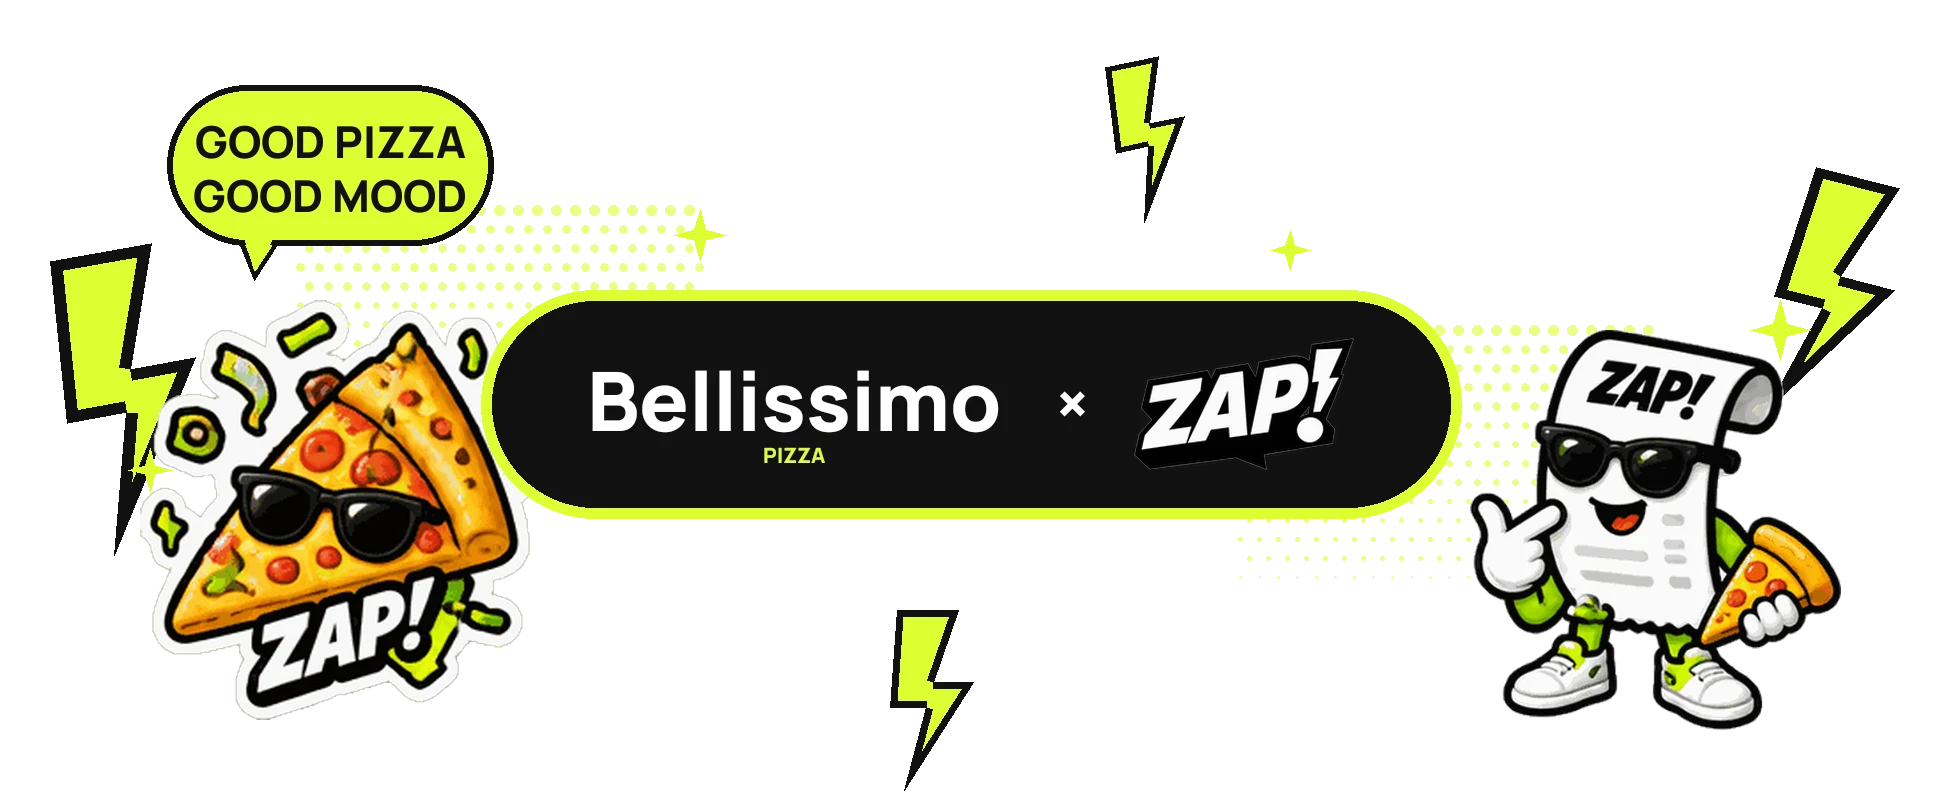
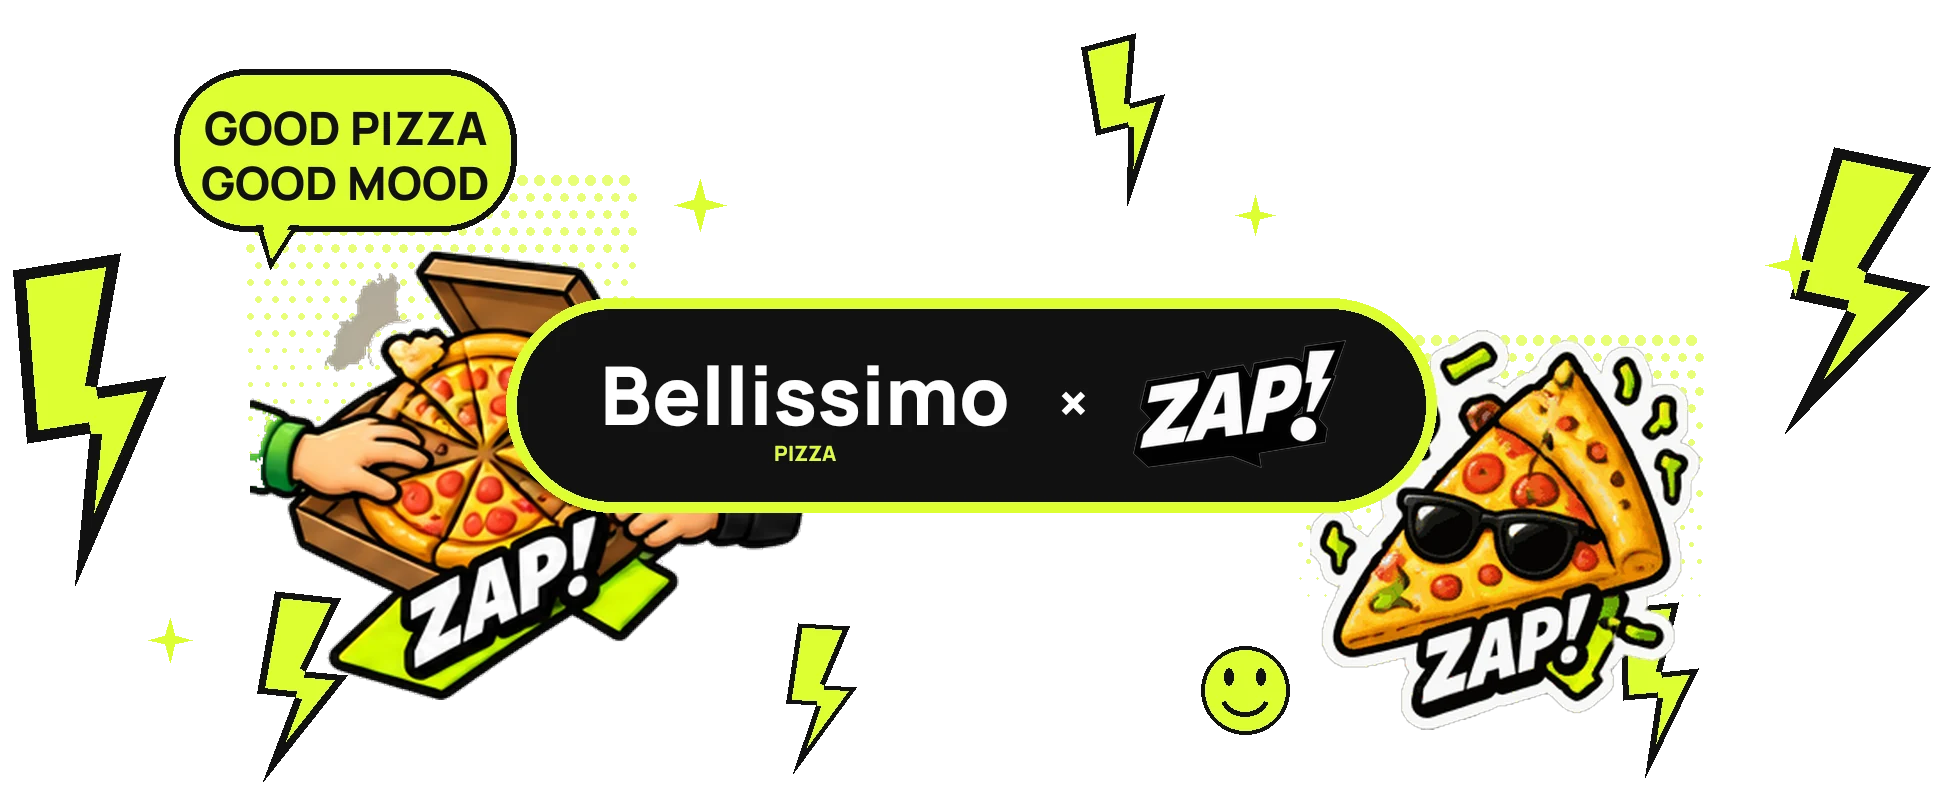
Баннеры заведений: настоящая еда вместо абстрактных значков
Прошлый заход промахнулся: в баннерах стояли служебные стикеры ZAP —
чек-персонаж, кулаки, сердце. В эталонном feedup-баннере главное не молнии
и не пилюля, а крупная ЕДА, и без неё баннер не читается как баннер
заведения.

Иллюстрации взяты из листов стикеров в docs/product: комбо (стакан, пицца,
бургер, фри), коробка пиццы в руках и пара кофейных стаканов. Вырезаны
заливкой от краёв, остатки фона отброшены как мелкие несвязные области —
пороговая чистка по цвету съедала белую обводку и серые линии чека.
Исходники лежат в tools/banner-src, чтобы баннеры пересобирались одной
командой.

Еда подобрана по кухне: коробка пиццы — Bellissimo, комбо — EVOS, кофе —
Safia и Bon. У Safia и Bon пара одна и та же: выпечки в наборе нет, поэтому
их разводим порядком, масштабом и подписью. Зеркалить нельзя — в стикерах
вшито «ZAP!», отражённый он читается задом наперёд.

Композиция плотнее: еда рисуется под пилюлей и заходит под неё, как лаваш и
бургер в эталоне, а не стоит иконками по краям.

diff --git a/apps/mobile/tools/gen-venue-banners.py b/apps/mobile/tools/gen-venue-banners.py
@@ -1,13 +1,14 @@
 #!/usr/bin/env python3
-"""Баннеры заведений для карусели главной — в стиле feedup × ZAP!.
+"""Баннеры заведений для карусели главной — в языке feedup × ZAP!.
 
 Эталон — assets/brand/venues/feedup.webp: широкий прозрачный коллаж, в центре
 чёрная «пилюля» с лаймовой обводкой и лок-апом «логотип × ZAP!», вокруг —
-стикеры, молнии, полутоновые точки и облачко с репликой.
+крупная еда, молнии, полутоновая фактура, искры и облачко с репликой.
 
-Иллюстрации не рисуются заново: в assets/stickers уже лежит набор ровно в
-этом языке (белая обводка, лайм, чёрный контур, ZAP!). Берём оттуда, поэтому
-баннеры гарантированно совпадают со стикерами внутри приложения.
+Главное в эталоне — именно ЕДА, а не абстрактные значки: без неё баннер
+перестаёт читаться как баннер заведения. Иллюстрации не рисуются заново, они
+вырезаны из листов стикеров в docs/product (лежат в tools/banner-src) — то же
+происхождение, что и у стикеров внутри приложения, поэтому стиль совпадает.
 
 Запуск:  python3 tools/gen-venue-banners.py
 """
@@ -18,6 +19,7 @@ from PIL import Image, ImageDraw, ImageFont
 
 ROOT = os.path.dirname(os.path.dirname(os.path.abspath(__file__)))
 A = os.path.join(ROOT, "assets")
+SRC = os.path.join(ROOT, "tools", "banner-src")
 OUT = os.path.join(A, "brand", "venues")
 
 W, H = 1942, 809
@@ -32,180 +34,176 @@ def font(size):
     return ImageFont.truetype(FONT_XB, size)
 
 
-def load(path, height):
-    im = Image.open(os.path.join(A, path)).convert("RGBA")
-    w = round(im.width * height / im.height)
-    return im.resize((w, height), Image.LANCZOS)
+def load(path, height, flip=False):
+    """path — относительно assets, а если там нет, то относительно banner-src."""
+    full = os.path.join(A, path)
+    if not os.path.exists(full):
+        full = os.path.join(SRC, path)
+    im = Image.open(full).convert("RGBA")
+    if flip:
+        im = im.transpose(Image.FLIP_LEFT_RIGHT)
+    return im.resize((round(im.width * height / im.height), height), Image.LANCZOS)
 
 
-def bolt(canvas, cx, cy, h, angle=0, color=LIME, outline=None):
-    """Молния: та же форма, что в вордмарке ZAP!, просто многоугольник."""
+def bolt(canvas, cx, cy, h, angle=0):
+    """Молния той же формы, что в вордмарке ZAP!, с чёрным контуром."""
     u = h / 100.0
     pts = [(-18, -50), (16, -50), (2, -10), (24, -10), (-14, 50), (-2, 4), (-22, 4)]
-    pts = [(x * u, y * u) for x, y in pts]
     a = math.radians(angle)
-    pts = [(x * math.cos(a) - y * math.sin(a) + cx, x * math.sin(a) + y * math.cos(a) + cy) for x, y in pts]
-    if outline:
-        canvas.polygon(pts, fill=color, outline=outline, width=max(2, int(h / 24)))
-    else:
-        canvas.polygon(pts, fill=color)
+    pts = [
+        (
+            x * u * math.cos(a) - y * u * math.sin(a) + cx,
+            x * u * math.sin(a) + y * u * math.cos(a) + cy,
+        )
+        for x, y in pts
+    ]
+    canvas.polygon(pts, fill=LIME, outline=INK, width=max(3, int(h / 26)))
 
 
-def sparkle(canvas, cx, cy, r, color=LIME):
-    """Четырёхлучевая искра — как в феедап-баннере."""
-    k = r * 0.22
+def sparkle(canvas, cx, cy, r):
+    k = r * 0.2
     canvas.polygon(
         [(cx, cy - r), (cx + k, cy - k), (cx + r, cy), (cx + k, cy + k),
          (cx, cy + r), (cx - k, cy + k), (cx - r, cy), (cx - k, cy - k)],
-        fill=color,
+        fill=LIME,
     )
 
 
-def halftone(img, box, color=(221, 255, 51, 150), step=17, r=4):
-    """Полутоновая заливка точками — фирменная фактура коллажа."""
+def halftone(img, box, step=17, r=5, color=(221, 255, 51, 170)):
+    """Полутоновое пятно — фирменная фактура коллажа, тает к краю."""
     d = ImageDraw.Draw(img)
     x0, y0, x1, y1 = box
-    rows = 0
-    for y in range(y0, y1, step):
-        rows += 1
-        # точки к краю мельчают: пятно должно растворяться, а не обрываться
-        fade = 1 - (y - y0) / max(1, (y1 - y0))
-        rr = max(1, int(r * (0.35 + 0.65 * fade)))
-        off = (step // 2) if rows % 2 else 0
+    for row, y in enumerate(range(y0, y1, step)):
+        fade = 1 - (y - y0) / max(1, y1 - y0)
+        rr = max(1, int(r * (0.3 + 0.7 * fade)))
+        off = step // 2 if row % 2 else 0
         for x in range(x0 + off, x1, step):
             d.ellipse([x - rr, y - rr, x + rr, y + rr], fill=color)
 
 
-def bubble(img, cx, cy, lines, size=44, pad=26, tail="left"):
-    """Лаймовое облачко с репликой, как «GOOD FOOD GOOD MOOD»."""
+def smiley(img, cx, cy, r):
+    """Лаймовый смайлик — он есть в эталоне и держит настроение коллажа."""
+    d = ImageDraw.Draw(img)
+    d.ellipse([cx - r, cy - r, cx + r, cy + r], fill=LIME, outline=INK, width=max(3, r // 9))
+    e = r * 0.2
+    for dx in (-r * 0.36, r * 0.36):
+        d.ellipse([cx + dx - e / 2, cy - r * 0.3 - e, cx + dx + e / 2, cy - r * 0.3 + e], fill=INK)
+    d.arc([cx - r * 0.55, cy - r * 0.35, cx + r * 0.55, cy + r * 0.6], 20, 160,
+          fill=INK, width=max(3, r // 8))
+
+
+def bubble(img, cx, cy, lines, size=46, tail="left"):
     d = ImageDraw.Draw(img)
     f = font(size)
     widths = [d.textlength(t, font=f) for t in lines]
-    tw, th = max(widths), size * 1.22 * len(lines)
-    w, h = tw + pad * 2, th + pad * 2
+    pad = 26
+    w = max(widths) + pad * 2
+    h = size * 1.2 * len(lines) + pad * 2
     x0, y0 = cx - w / 2, cy - h / 2
-    d.rounded_rectangle([x0, y0, x0 + w, y0 + h], radius=h / 2, fill=LIME,
-                        outline=INK, width=6)
-    # хвостик облачка
-    ty = y0 + h - 4
-    tx = x0 + (w * 0.28 if tail == "left" else w * 0.72)
-    d.polygon([(tx - 20, ty), (tx + 22, ty), (tx - 4, ty + 40)], fill=LIME, outline=INK, width=5)
-    d.polygon([(tx - 15, ty - 6), (tx + 17, ty - 6), (tx - 4, ty + 30)], fill=LIME)
+    d.rounded_rectangle([x0, y0, x0 + w, y0 + h], radius=h / 2.2, fill=LIME, outline=INK, width=6)
+    tx = x0 + (w * 0.3 if tail == "left" else w * 0.7)
+    d.polygon([(tx - 20, y0 + h - 6), (tx + 22, y0 + h - 6), (tx - 6, y0 + h + 38)],
+              fill=LIME, outline=INK, width=5)
+    d.polygon([(tx - 14, y0 + h - 12), (tx + 16, y0 + h - 12), (tx - 6, y0 + h + 26)], fill=LIME)
     for i, t in enumerate(lines):
-        d.text((cx - widths[i] / 2, y0 + pad + i * size * 1.22), t, font=f, fill=INK)
+        d.text((cx - widths[i] / 2, y0 + pad + i * size * 1.2), t, font=f, fill=INK)
 
 
-def text_logo(title, sub, height, mark=None):
-    """Логотип: фирменный знак (если есть) + белая подпись.
+def text_logo(title, sub, height):
+    """Белая подпись заведения.
 
-    Готовые файлы логотипов свёрстаны под светлый фон — тёмный текст на
-    чёрной пилюле пропадает. Поэтому знак берём из файла, а подпись рисуем
-    сами белым.
+    Готовые файлы логотипов свёрстаны под светлый фон — тёмный текст на чёрной
+    пилюле пропадает, поэтому подпись рисуется своим шрифтом.
     """
-    f1 = font(int(height * 0.60))
-    f2 = font(int(height * 0.155)) if sub else None
-    tmp = ImageDraw.Draw(Image.new("RGBA", (1, 1)))
-    tw = max(tmp.textlength(title, font=f1), tmp.textlength(sub, font=f2) if sub else 0)
-
-    knob = load(mark, int(height * 0.86)) if mark else None
-    gap = int(height * 0.18) if knob else 0
-    w = int(tw) + (knob.width + gap if knob else 0) + 8
+    f1 = font(int(height * 0.62))
+    f2 = font(int(height * 0.16)) if sub else None
+    t = ImageDraw.Draw(Image.new("RGBA", (1, 1)))
+    w = int(max(t.textlength(title, font=f1), t.textlength(sub, font=f2) if sub else 0)) + 8
     im = Image.new("RGBA", (w, height), (0, 0, 0, 0))
     d = ImageDraw.Draw(im)
-
-    x = 0
-    if knob:
-        im.paste(knob, (0, (height - knob.height) // 2), knob)
-        x = knob.width + gap
-    d.text((x + (tw - tmp.textlength(title, font=f1)) / 2, height * 0.06), title, font=f1, fill=WHITE)
+    d.text(((w - t.textlength(title, font=f1)) / 2, 0), title, font=f1, fill=WHITE)
     if sub:
-        d.text((x + (tw - tmp.textlength(sub, font=f2)) / 2, height * 0.76), sub, font=f2, fill=LIME)
+        d.text(((w - t.textlength(sub, font=f2)) / 2, height * 0.76), sub, font=f2, fill=LIME)
     return im
 
 
-def lockup(img, logo_path, logo_h, pill_w=980, pill_h=228):
-    """Центральный лок-ап «логотип × ZAP!» в чёрной пилюле."""
+def lockup(img, logo, logo_h, pill_w=930, pill_h=214):
     d = ImageDraw.Draw(img)
     x0, y0 = (W - pill_w) / 2, (H - pill_h) / 2
     d.rounded_rectangle([x0, y0, x0 + pill_w, y0 + pill_h], radius=pill_h / 2,
                         fill=INK, outline=LIME, width=11)
 
-    if isinstance(logo_path, tuple):
-        title, sub, *mark = logo_path
-        logo = text_logo(title, sub, logo_h, mark[0] if mark else None)
-    else:
-        logo = load(logo_path, logo_h)
-    zap = load("brand/zap-wordmark.png", 132)
-    f = font(64)
+    mark = text_logo(*logo, logo_h) if isinstance(logo, tuple) else load(logo, logo_h)
+    zap = load("brand/zap-wordmark.png", 128)
+    f = font(60)
     xw = d.textlength("×", font=f)
-
-    gap = 46
-    total = logo.width + gap + xw + gap + zap.width
-    x = (W - total) / 2
-    img.paste(logo, (int(x), int((H - logo.height) / 2)), logo)
-    x += logo.width + gap
-    d.text((x, H / 2 - 46), "×", font=f, fill=WHITE)
+    gap = 44
+    x = (W - (mark.width + gap + xw + gap + zap.width)) / 2
+    img.paste(mark, (int(x), int((H - mark.height) / 2)), mark)
+    x += mark.width + gap
+    d.text((x, H / 2 - 43), "×", font=f, fill=WHITE)
     x += xw + gap
     img.paste(zap, (int(x), int((H - zap.height) / 2)), zap)
 
 
-def build(name, logo_path, logo_h, left, right, caption, seed_bolts):
+def build(name, logo, logo_h, food, caption):
+    """food — список (файл, высота, x, y); рисуется поверх молний и фактуры."""
     img = Image.new("RGBA", (W, H), (0, 0, 0, 0))
     d = ImageDraw.Draw(img)
 
-    # фактура и молнии уходят под стикеры — рисуем первыми
-    halftone(img, (300, 210, 700, 470), step=19, r=5)
-    halftone(img, (1240, 330, 1660, 590), step=19, r=5)
-    for cx, cy, h, ang in seed_bolts:
-        bolt(d, cx, cy, h, ang, outline=INK)
+    halftone(img, (250, 180, 640, 470))
+    halftone(img, (1300, 340, 1700, 610))
+    for cx, cy, h, ang in [
+        (95, 420, 320, -9), (1855, 300, 290, 12), (300, 690, 190, 6),
+        (1660, 690, 170, -6), (1130, 120, 165, -14), (820, 700, 150, 4),
+    ]:
+        bolt(d, cx, cy, h, ang)
 
-    ls, rs = load(left[0], left[1]), load(right[0], right[1])
-    img.paste(ls, (left[2], left[3]), ls)
-    img.paste(rs, (right[2], right[3]), rs)
+    # Еда рисуется ДО пилюли и заходит под неё — в эталоне лок-ап лежит
+    # поверх бургера и лаваша, именно это делает коллаж плотным, а не
+    # «иконки по краям».
+    for item in food:
+        path, fh, fx, fy = item[:4]
+        im = load(path, fh, flip=len(item) > 4 and item[4])
+        img.paste(im, (fx, fy), im)
 
-    lockup(img, logo_path, logo_h)
+    lockup(img, logo, logo_h)
 
-    # искры и реплика — поверх всего, как в эталоне
-    for cx, cy, r in [(700, 235, 26), (1290, 250, 20), (1780, 330, 30), (150, 470, 22)]:
+    for cx, cy, r in [(700, 205, 26), (1255, 215, 20), (1795, 265, 30), (170, 640, 22)]:
         sparkle(d, cx, cy, r)
-    bubble(img, 330, 165, caption)
+    smiley(img, 1245, 690, 44)
+    bubble(img, 345, 150, caption)
 
     out = os.path.join(OUT, name + ".webp")
     img.save(out, "WEBP", quality=88, method=6)
-    print(f"{name:12s} → {out}  {os.path.getsize(out) // 1024} КБ")
+    print(f"{name:12s} {os.path.getsize(out) // 1024} КБ")
 
 
-# Стикеры подобраны по характеру заведения; для EVOS и Bon! в наборе нет
-# профильной еды, поэтому взяты фирменный персонаж-чек и «социальные» сцены —
-# они нейтральны и не выдают чужую кухню за свою.
+# Еда подобрана по кухне заведения: подставить бургер пиццерии — ровно та
+# небрежность, из-за которой баннер перестаёт читаться как «про это место».
 build(
-    "evos", "brand/partners/evos-logo.png", 150,
-    left=("stickers/receipt-hero.png", 420, 200, 300),
-    right=("stickers/fist-bump.png", 360, 1460, 380),
+    "evos", "brand/partners/evos-logo.png", 142,
+    food=[("food-combo.png", 470, 265, 250), ("coffee-duo.png", 360, 1300, 350)],
     caption=["REAL TASTE", "EVERY DAY"],
-    seed_bolts=[(120, 430, 300, -8), (1810, 250, 260, 12), (960, 690, 190, 0), (1120, 150, 170, -14)],
 )
 
 build(
-    "bellissimo", ("Bellissimo", "PIZZA"), 138,
-    left=("stickers/theme-food.png", 420, 140, 300),
-    right=("stickers/receipt-hero.png", 400, 1470, 330),
+    "bellissimo", ("Bellissimo", "PIZZA"), 132,
+    food=[("pizza-box.png", 450, 250, 250), ("stickers/theme-food.png", 400, 1310, 330)],
     caption=["GOOD PIZZA", "GOOD MOOD"],
-    seed_bolts=[(130, 400, 300, -10), (1830, 300, 250, 14), (930, 700, 180, 0), (1150, 140, 160, -12)],
 )
 
 build(
-    "safia", ("Safia", "CAFÉ & BAKERY", "brand/partners/safia-sq.png"), 150,
-    left=("stickers/theme-coffee.png", 410, 155, 305),
-    right=("stickers/hands-heart.png", 360, 1450, 380),
+    "safia", ("Safia", "CAFÉ & BAKERY"), 132,
+    food=[("coffee-duo.png", 450, 265, 250), ("stickers/theme-coffee.png", 390, 1320, 340)],
     caption=["FRESH BAKED", "DAILY"],
-    seed_bolts=[(120, 420, 290, -9), (1820, 270, 250, 13), (950, 690, 180, 0), (1100, 150, 160, -12)],
 )
 
 build(
-    "bon", ("Bon!", "BOULANGERIE · PÂTISSERIE"), 150,
-    left=("stickers/heart-zap.png", 380, 175, 320),
-    right=("stickers/bill-done.png", 400, 1480, 330),
+    "bon", ("Bon!", "BOULANGERIE · PÂTISSERIE"), 132,
+    # Кофейная пара та же, что у Safia: выпечки в наборе стикеров нет.
+    # Разводим порядком, масштабом и подписью, но НЕ зеркалом — в стикерах
+    # вшито «ZAP!», и отражённый он читается задом наперёд.
+    food=[("stickers/theme-coffee.png", 460, 255, 245), ("coffee-duo.png", 350, 1330, 355)],
     caption=["FRESHLY BAKED", "EVERY DAY"],
-    seed_bolts=[(125, 410, 295, -8), (1815, 285, 245, 13), (940, 695, 185, 0), (1130, 145, 165, -13)],
 )
